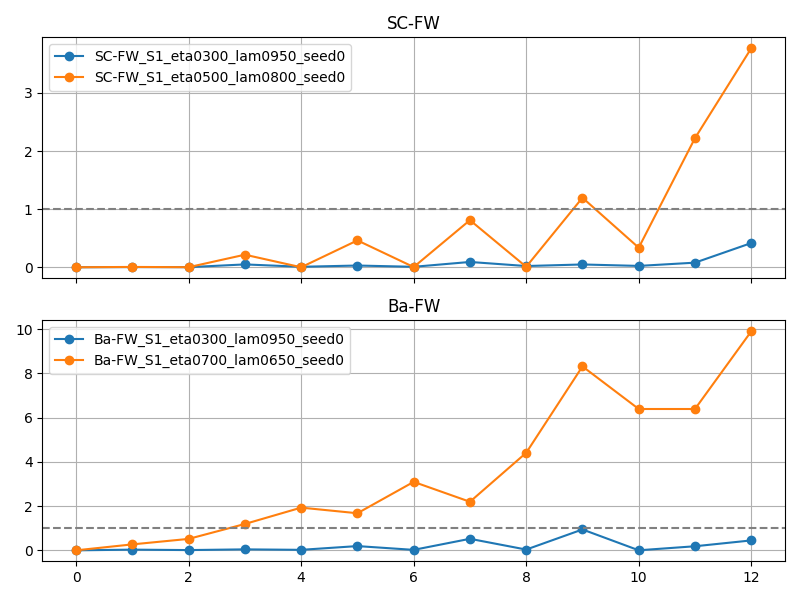
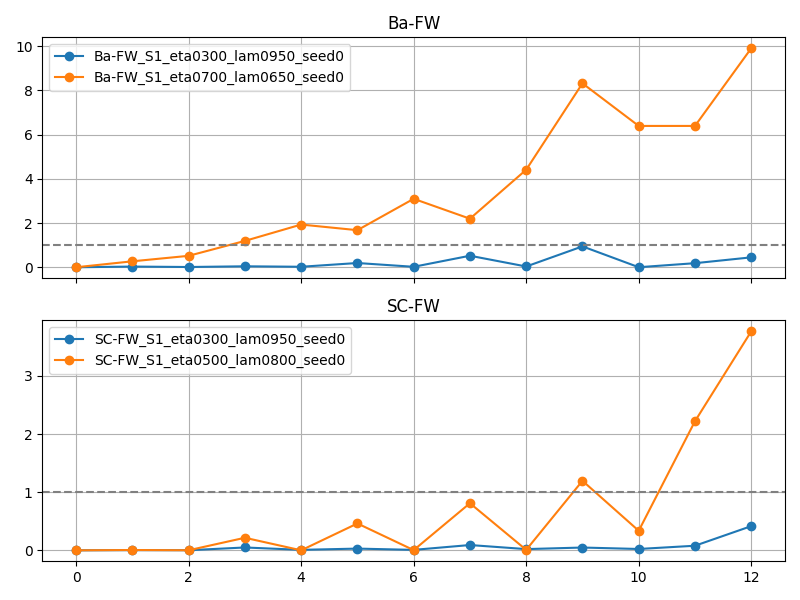
1217

diff --git a/KV_CLASS/kv_class_Anorm/figure/sloop_ratio_all.py b/KV_CLASS/kv_class_Anorm/figure/sloop_ratio_all.py
@@ -198,14 +198,7 @@ def main():
         return
 
     if len(curves_sc) > 0 and len(curves_ba) > 0:
-        fig, (ax_sc, ax_ba) = plt.subplots(2, 1, sharex=True, figsize=(8, 6))
-
-        for t, r, lab in curves_sc:
-            ax_sc.plot(t, r, marker="o", label=lab)
-        ax_sc.axhline(1.0, color="gray", linestyle="--")
-        ax_sc.set_title("SC-FW")
-        ax_sc.grid(True)
-        ax_sc.legend()
+        fig, (ax_ba, ax_sc) = plt.subplots(2, 1, sharex=True, figsize=(8, 6))
 
         for t, r, lab in curves_ba:
             ax_ba.plot(t, r, marker="o", label=lab)
@@ -213,6 +206,13 @@ def main():
         ax_ba.set_title("Ba-FW")
         ax_ba.grid(True)
         ax_ba.legend()
+
+        for t, r, lab in curves_sc:
+            ax_sc.plot(t, r, marker="o", label=lab)
+        ax_sc.axhline(1.0, color="gray", linestyle="--")
+        ax_sc.set_title("SC-FW")
+        ax_sc.grid(True)
+        ax_sc.legend()
 
     else:
         fig, ax = plt.subplots(1, 1, figsize=(8, 4))
